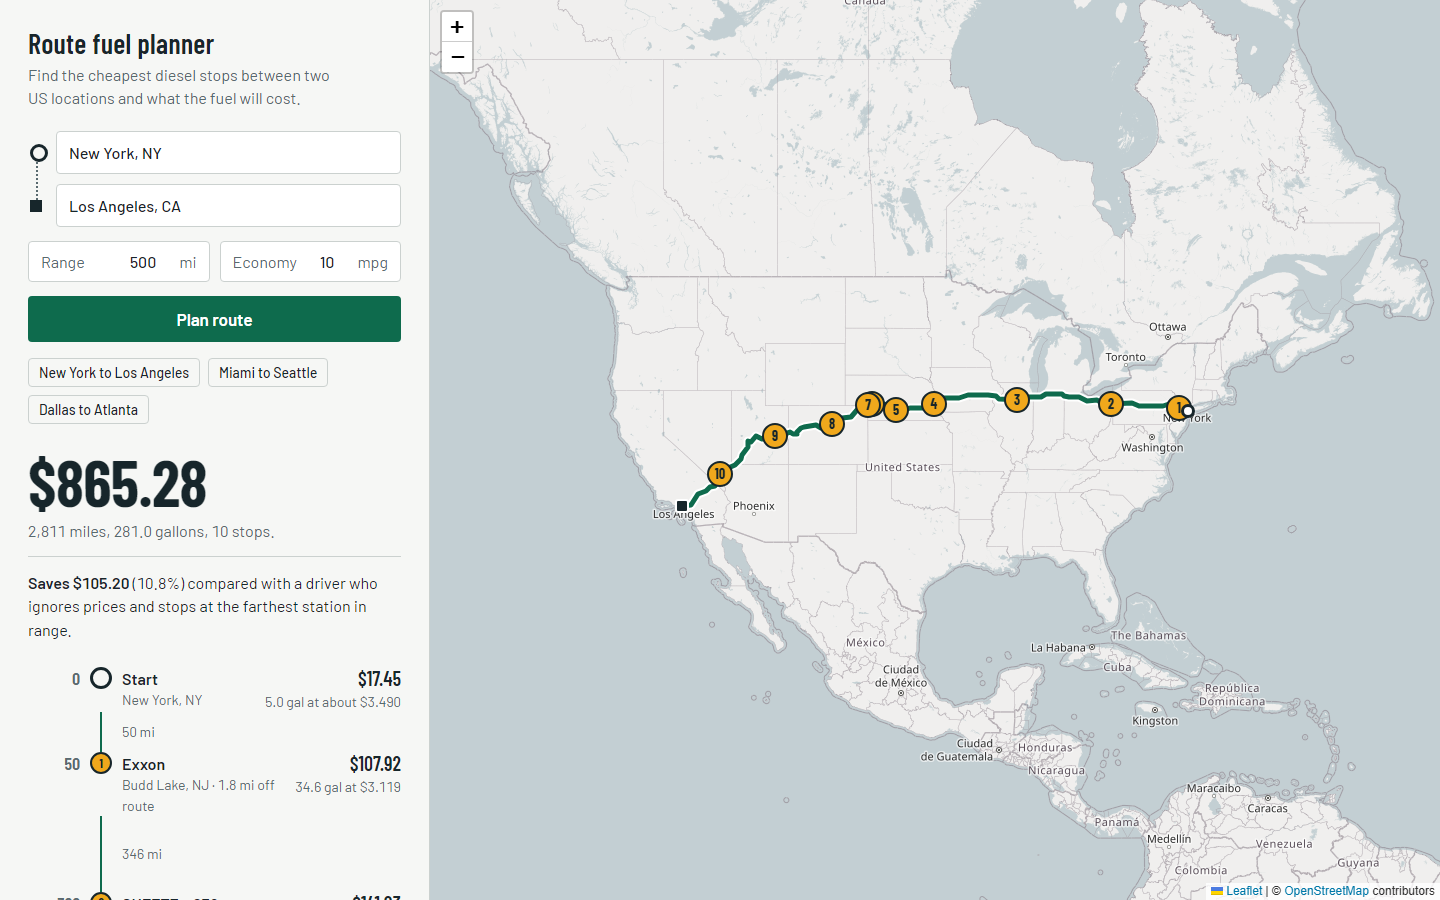
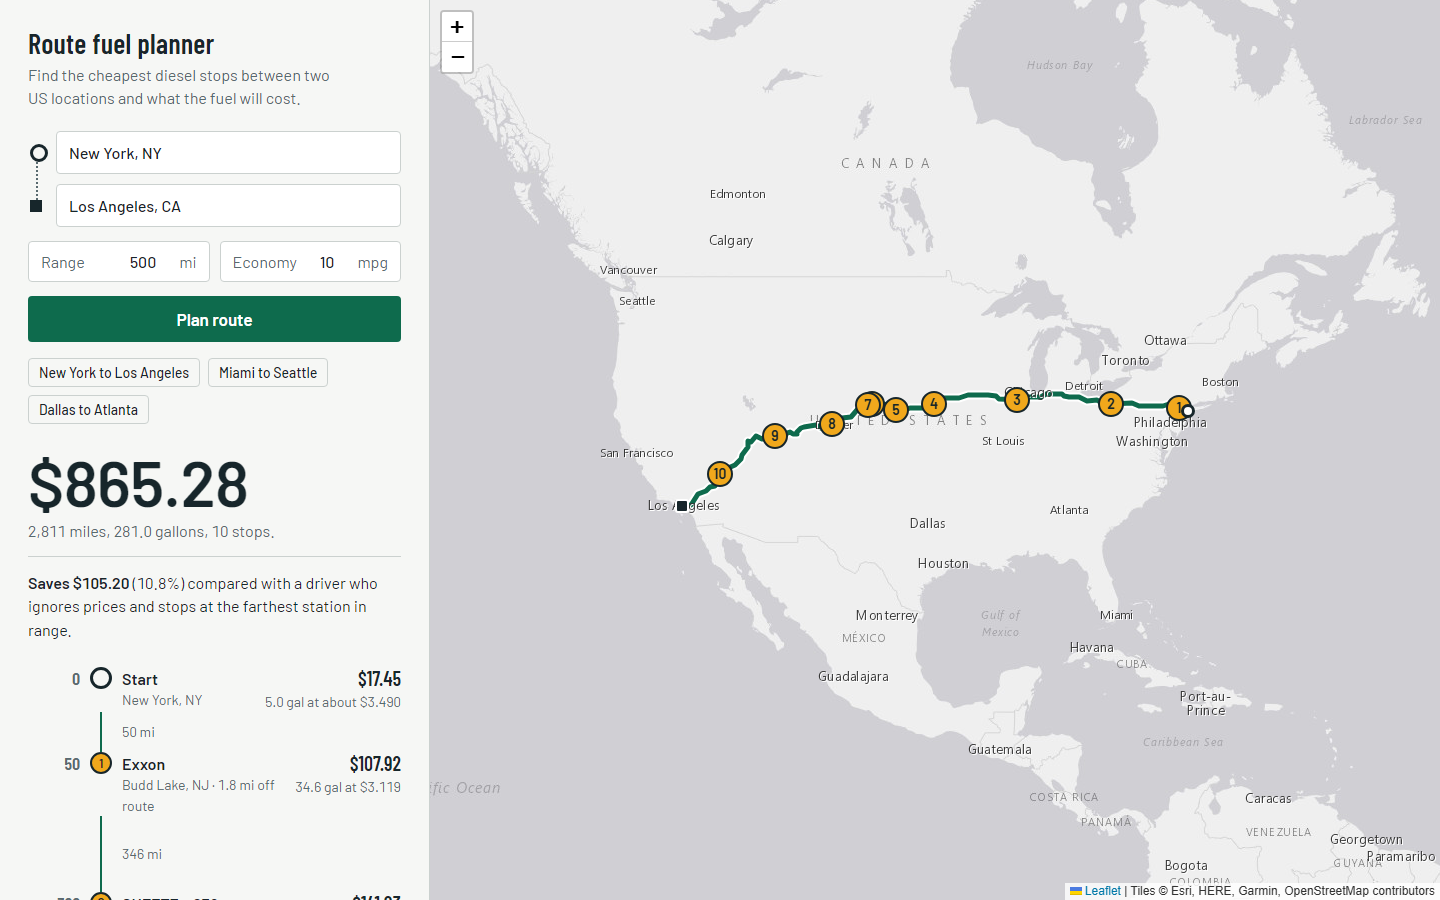
Fix blank map tiles: send Referer and switch to a keyless Esri grey basemap

diff --git a/fuel/templates/fuel/map.html b/fuel/templates/fuel/map.html
@@ -95,7 +95,6 @@
   .end.b span { background: var(--ink); border: 2px solid #fff; border-radius: 3px; }
   .leaflet-popup-content-wrapper { border-radius: 4px; font: 400 14px/1.4 var(--body); color: var(--ink); }
   .leaflet-popup-content { margin: 10px 12px; }
-  .leaflet-tile-pane { filter: saturate(.3) contrast(.92) brightness(1.04); }
   .route-line { fill: none; }
   .route-line.draw { transition: stroke-dashoffset 1s ease-out; }
   @media (prefers-reduced-motion: reduce) { .route-line.draw { transition: none; } }
@@ -153,9 +152,13 @@ const gal = n => Number(n).toFixed(1);
 const reduceMotion = matchMedia('(prefers-reduced-motion: reduce)').matches;
 
 const map = L.map('map', {zoomControl: true}).setView([39.2, -97], 4);
-L.tileLayer('https://tile.openstreetmap.org/{z}/{x}/{y}.png', {
-  maxZoom: 18,
-  attribution: '&copy; <a href="https://www.openstreetmap.org/copyright">OpenStreetMap</a> contributors'
+const ESRI = 'https://server.arcgisonline.com/ArcGIS/rest/services/Canvas/';
+L.tileLayer(ESRI + 'World_Light_Gray_Base/MapServer/tile/{z}/{y}/{x}', {
+  maxZoom: 16, maxNativeZoom: 16,
+  attribution: 'Tiles &copy; Esri, HERE, Garmin, OpenStreetMap contributors'
+}).addTo(map);
+L.tileLayer(ESRI + 'World_Light_Gray_Reference/MapServer/tile/{z}/{y}/{x}', {
+  maxZoom: 16, maxNativeZoom: 16
 }).addTo(map);
 const layer = L.layerGroup().addTo(map);
 let markers = [];

diff --git a/config/settings.py b/config/settings.py
@@ -72,6 +72,9 @@ USE_I18N = False
 USE_TZ = True
 DEFAULT_AUTO_FIELD = "django.db.models.BigAutoField"
 
+# Map tile servers (OpenStreetMap) require a Referer; Django's default "same-origin" strips it.
+SECURE_REFERRER_POLICY = "strict-origin-when-cross-origin"
+
 STATIC_URL = "static/"
 STATIC_ROOT = BASE_DIR / "staticfiles"
 
